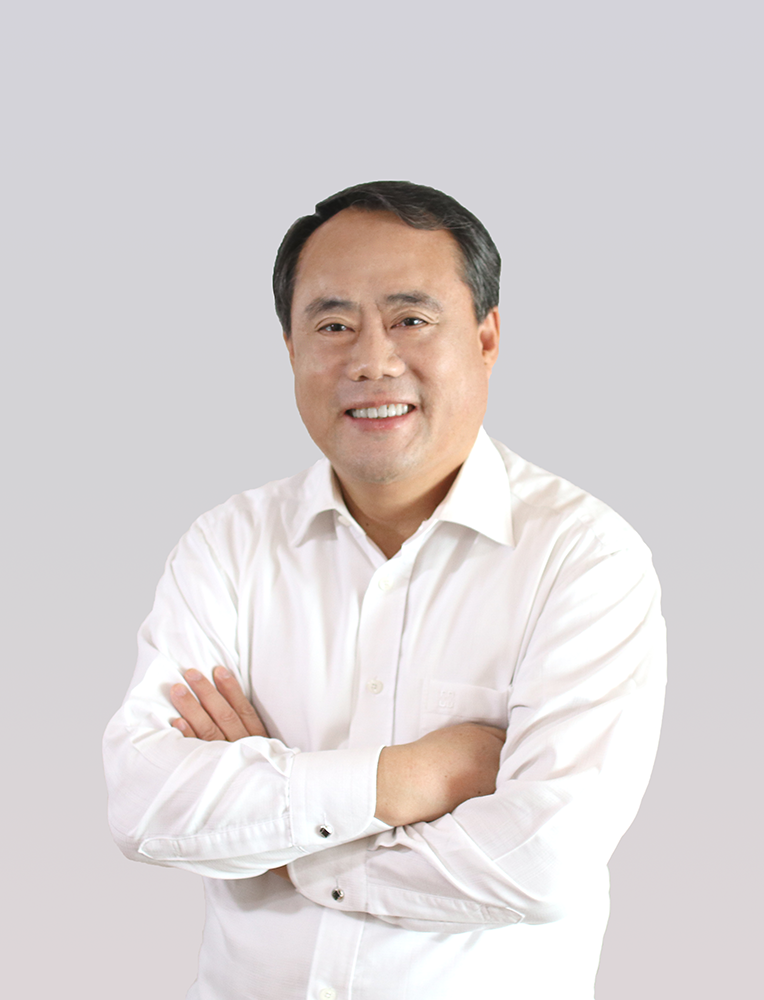
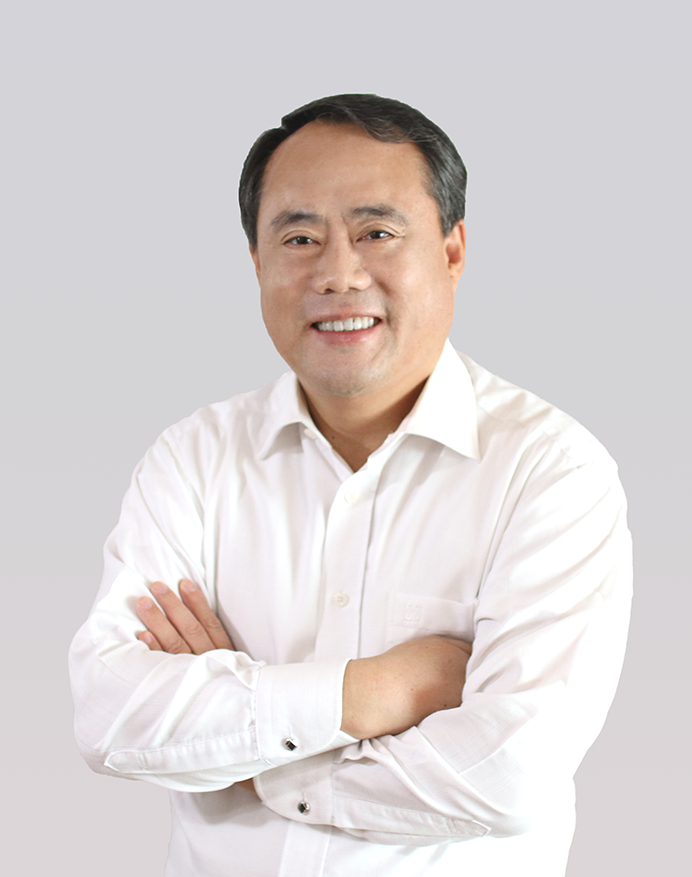
우리교회는 페이지 레이아웃 및 스타일 수정

Changed region(s): [[0.091, 0.0924, 0.9408, 1.0], [0.698, 0.8312, 0.7283, 0.862]]

diff --git a/newpeoplech/css/sub.css b/newpeoplech/css/sub.css
@@ -1,7 +1,7 @@
 @charset "utf-8";
 
 /* 환영합니다 */
-#introduction { padding: 0;}
+#introduction { padding: 0; margin-bottom: 50px;}
 #welcome {padding:50px 10px; text-align: center;}
 #welcome .welcome_logo img {width:100px;}
 #welcome .welcome_intro h3 {padding:30px 0 15px; font-family:'Playfair Display', serif; font-size:18px;color:#a9aaab; font-weight:600; }
@@ -9,32 +9,59 @@
 #welcome .welcome_intro hr {width:170px; border-color:#0066B3; margin-top: 30px; margin-bottom: 30px;}
 #welcome .welcome_intro p a{font-weight:500;}
 #welcome .welcome_intro p > a:nth-child(3) {color:#0066B3}
-#welcome .welcome_intro p > a:nth-child(4) {color:#A5D546}
+#welcome .welcome_intro p > a:nth-child(4) {color:#7bb700}
+#pastor { padding:60px 20px 0; background-color: #f7f7f7; }
+#pastor .pastor_content .pastor_text hr {margin-bottom: 30px; width: 40px; border: solid 1px #0066B3; background: #0066B3;}
+#pastor .pastor_content .pastor_text p { margin-bottom: 15px;}
+#pastor .pastor_content .pastor_image {position: relative; top: 10px; text-align: right; display:flex; -webkit-flex-direction:row-reverse;　flex-direction:row-reverse;}
+#pastor .pastor_content .pastor_image a > img { height:200px; border-radius:20px; box-shadow: 0 3.4px 2.7px rgba(0, 0, 0, 0.037), 0 8.7px 6.9px rgba(0, 0, 0, 0.053), 0 17.7px 14.2px rgba(0, 0, 0, 0.067), 0 16.5px 9.2px rgba(0, 0, 0, 0.083), 0 40px 20px rgba(0, 0, 0, 0.12);}
+#pastor .pastor_content .pastor_image a p {position: absolute; bottom:30px; right: 180px; font-size: 1rem; line-height: 1.6rem; letter-spacing: -1px;}
+#pastor .pastor_content .pastor_image a p span { font-weight:500; font-size: 1.2rem;}
+#pastor .pastor_content .pastor_image a p > img {width:80px; margin-top:10px;}
 @media all and (min-width:375px){
-	#welcome {padding:50px 30px;}
 	#welcome .welcome_logo img {width:120px;}
 	#welcome .welcome_intro h3 {font-size:20px;}
 	#welcome .welcome_intro h2 {font-size:23px;}
-	#welcome .welcome_intro p {font-size:15px;}
+	#welcome .welcome_intro p {font-size:16px;}
+	#pastor .pastor_content .pastor_text p  {font-size:16px;}
+	#pastor .pastor_content .pastor_image a p{font-size:1.1rem; letter-spacing: 0}
+	#pastor .pastor_content .pastor_image a p span { font-size: 1.3rem;}
 }
 @media all and (min-width:768px){
-	#welcome {width:768px; display:flex; padding-top:30px; margin: 0 auto;}
+	#introduction { margin-bottom: 0;}
+	#welcome {width:768px; display:flex; padding:10px 0 60px 0; margin: 0 auto;}
 	#welcome .welcome_logo {float:left; width:33%;}
 	#welcome .welcome_logo img { width:140px; position:relative; top:20%; left: 10%;}
 	#welcome .welcome_intro {width:66%; text-align: left; padding-left:20px;}
 	#welcome .welcome_intro h3 {text-align: left; font-size:1.6rem}
 	#welcome .welcome_intro h2 {font-size:1.8rem;}
-	#welcome .welcome_intro p {font-size:1rem;}
+	#welcome .welcome_intro p {font-size:17px;}
 	#welcome .welcome_intro hr {margin-left:0;}
+	#pastor {padding: 60px 40px}
+	#pastor .pastor_content {display: flex;}
+	#pastor .pastor_content .pastor_text {width: 65%;}
+	#pastor .pastor_content .pastor_text p {font-size: 1.1rem;}
+	#pastor .pastor_content .pastor_image {width: 35%; padding: 0 0 0 40px; display:block; text-align: right;}
+	#pastor .pastor_content .pastor_image a {position: absolute; bottom:0; right:30px;}
+	#pastor .pastor_content .pastor_image a > img { height:240px;}
+	#pastor .pastor_content .pastor_image a p {font-size:1.2rem; right: 0; position:unset; bottom:0; margin-top: 20px; padding-right: 20px}
+	#pastor .pastor_content .pastor_image a p span { display:inline-block; font-size:1.4rem;}
 }
 @media all and (min-width:1024px){
+	#introduction { margin-bottom: 0;}
 	#welcome {width:1024px;}
 	#welcome .welcome_logo img { width:180px; left:15%;}
 	#welcome .welcome_intro h3 {font-size:2rem}
 	#welcome .welcome_intro h2 {font-size:2.1rem;}
 	#welcome .welcome_intro p {font-size:1.2rem;}
+	#pastor .pastor_content .pastor_text {width: 70%;}
+	#pastor .pastor_content .pastor_image {width: 30%;}
+	}
+@media all and (min-width:1200px){
+	#pastor .pastor_content {max-width:1140px; margin: 0 auto;}
+	#pastor .pastor_content .pastor_text {width: 75%;}
+	#pastor .pastor_content .pastor_image {width: 25%;}
 }
-#pastor { padding:30px 0 50px; background-color: #f7f7f7; text-align: center;}
 
 /* 교회 비전 */
 #vision { padding: 0;}
@@ -166,20 +193,20 @@
 .pp_box01{margin-bottom:20px;}
 .pp_box01 .pastor_img{width:200px; margin:0 auto;}
 .pp_box01 .pastor_img img{display: block;width:100%;}
-.pp_box01 .pastor_name{text-align:center;margin:30px 0;color:#58524c;font-size: 20px;line-height: 1;text-indent:0;}
-.pp_box01 .pastor_name > b{ font-weight: 600; font-size:22px}
-.pp_box01 .pastor_name > span{ display: block; margin-top: 10px; font-weight: 200; font-size: 16px;}
+.pp_box01 .pastor_name{text-align:center;margin:30px 0;color:#58524c;font-size: 22px;line-height: 1;text-indent:0;}
+.pp_box01 .pastor_name > b{ font-weight: 600; font-size:24px}
+.pp_box01 .pastor_name > span{ display: block; margin-top: 10px; font-weight: 200; font-size: 17px;}
 .pp_box01 .pastor_name > a{display: block;width:200px;padding:8px 0;margin:10px auto 30px;border-radius: 20px;background: #756d66;font-weight:500;color:#fff;font-size: 14px;letter-spacing: -0.04em;text-align: center;}
 .pp_box01 .pastor_txt{float:none;width:100%;padding:10px 0 0;}
 .pp_box01 .pastor_txt ul { background:#f1f1f1; border-radius: 10px; padding:20px;}
-.pp_box01 .pastor_txt ul li{position: relative;color:#3a2c2d;letter-spacing: -0.06em;font-size: 14px;line-height: 25px;margin-left: 20px;text-indent: -18px;}
+.pp_box01 .pastor_txt ul li{position: relative;color:#3a2c2d;letter-spacing: -0.06em;font-size: 15px;line-height: 25px;margin-left: 20px;text-indent: -18px;}
 .pp_box01 .pastor_txt ul li:before{position: relative;top:-2px;display: inline-block;clear:both;content:'';width:8px;height:8px;margin:0 10px 0 0;border-radius: 50%;background: #756d66}
 .pp_box02 .pp_list .pp_item{float:left;width:48%;margin:0 4% 30px 0}
 .pp_box02 .pp_list .pp_item:nth-child(2n){margin:0 0 20px 0 !important}
 .pp_box02 .pp_list .pp_item:nth-child(3n){margin:0 4% 20px 0}
 .pp_box02 .pp_list .pp_item img{display: block;width:90%; margin:auto;}
 .pp_box02 .pp_list .pp_info{max-width: 100%;padding:15px 5px 12px;text-align: center;}
-.pp_box02 .pp_list .pp_info li{color:#3a2c2d;font-size: 14px;letter-spacing: -0.025em;line-height: 1.5}
+.pp_box02 .pp_list .pp_info li{color:#3a2c2d;font-size: 15px;letter-spacing: -0.025em;line-height: 1.5}
 .pp_box02 .pp_list .pp_info li:first-child{margin:0 0 5px 0;color:#58524c;font-size: 17px; font-weight:500; letter-spacing: -0.04em;line-height: 1.5}
 .pp_box02 .pp_list .pp_info li:nth-child(2){background: #ede5dd; border-radius:10px; padding:2px 0 1px;}
 .pp_box02{margin:50px 0 0;}

diff --git a/newpeoplech/html/content/교회소개/우리교회는.html b/newpeoplech/html/content/교회소개/우리교회는.html
@@ -196,7 +196,7 @@
             <!--콘텐츠영역 시작-->
             <div class="content_warp">
                 <div class="content_top">
-                    <h3><span>환영합니다</span></h3>
+                    <h3><span>우리 교회는</span></h3>
                 </div>
                 <!--본문 시작-->
                 <div class="content" id="introduction">
@@ -208,19 +208,26 @@
                             <h3>"Semper Reformanda"</h3>
                             <h2>바른 신학, 바른 교회, 바른 생활</h2>
                             <hr>
-                            <p>우리 교회는 웨스트민스터 신앙고백에 입각하여 <br>정통적인 개혁주의 신학(칼빈 신학)에 근거한 <br><a href="#">대한예수교 장로회 합동</a> 교단 <a href="#">호남노회</a>에 소속된 교회입니다.</p>
+                            <p>우리 교회는 웨스트민스터 신앙고백에 입각하여 <br>정통적인 개혁주의 신학(칼빈 신학)에 근거한 <br><a href="#">대한예수교 장로회(합동)</a> 교단 <a href="#">호남노회</a>에 소속된 교회입니다.</p>
                         </div>
                     </section>
                     <section id="pastor">
-                        <article class="pastor_text">
-                            <h3>환영합니다!</h3>
-                            <p>광주새백성교회 홈페이지를 방문하신 분들을 환영하고 축복합니다. 직접 만나지 못해도 홈페이지를 통해 만남을 가질 수 있어서 참 편리한 세상입니다. 광주새백성교회 홈페이지가 방문하신 분들에게 기쁨을 드리게 되길 원합니다. </p>
-                            <p>광주새백성교회는 2001년 11월 12일 광주 북구 용봉동 현재 위치에 세워진 이후 오늘까지 하나님을 바르게 섬기기 위해 힘써 왔습니다. 우리 교회는 앞으로도 예수님의 마음과 올바른 목양 철학을 바탕으로 바른 교회로서의 사명을 다하기 위해 힘쓸 것입니다.</p>
-                            <p>우리 교회 홈페이지 방문을 계기로 당신과 더 가까워지길 원합니다.<br>하나님의 평안이 함께 하시길 축복합니다.</p>
-                        </article>
-                        <div class="pastor_image">
-                            <img src="../../../images/sub/people/pastor_square.png" alt="장실 목사">
-                            <p>위임목사 <span>장 실</span></p>
+                        <div class="pastor_content">
+                            <article class="pastor_text">
+                                <h3>환영합니다!</h3>
+                                <hr align="left">
+                                <p>광주새백성교회 홈페이지를 방문해주신 모든 분들을 환영합니다. 하나님께서 주시는 은혜와 사랑이 여러분과 가정 위에 항상 충만하기를 바라고 기원합니다.</p>
+                                <p>교회는 세상의 기준으로 세우는 것이 아니라, 예수 그리스도를 인격적으로 만나고 올바르게 교제하며 공동체의 결실을 맺어야 비로소 좋은 교회로 세워질 수 있습니다. <br>교회의 이름이 아닌 예수 그리스도를 높이고, 교회의 머리가 하나님이심을 고백하며, 교회를 세우신 목적을 위해 세상의 빛과 소금의 역할을 묵묵히 감당할 수 있는 광주새백성교회가 되고자 합니다.</p>
+                                <p>우리 교회는 앞으로도 예수님의 형상을 본받고 올바른 목양 철학을 바탕으로 바른 교회의 사명을 다하기 위해 힘쓸 것입니다. 예수 그리스도를 진심으로 만남으로써 값진 행복을 함께 나누는 좋은 이웃이 되어 여러분을 늘 맞이하겠습니다.<br>하나님의 평안이 늘 임하시길 축복합니다.</p>
+                            </article>
+                            <div class="pastor_image">
+                                <a href="#">
+                                    <img src="../../../images/sub/people/pastor_square.png">
+                                    <p>광주새백성교회 <br>위임목사 <!--<span>장 실</span>--><br>
+                                        <img src="../../../images/sub/people/pastor_sign.png" alt="장 실">
+                                    </p>
+                                </a>
+                            </div>
                         </div>
                     </section>
                 </div>

diff --git a/newpeoplech/css/layout.css b/newpeoplech/css/layout.css
@@ -254,7 +254,7 @@ a.quick_menu:hover, a.quick_menu:focus, a.quick_menu:active {background:#404b64;
 .content_top:after{ display:block; clear: both; content:""}
 .content_top h3, .content section .sec_title{ color:#3b3e4a; font-size:2rem; font-weight:500; text-align: center; }
 .content_top h3 span, .content section .sec_title span{ padding: 0px 7px; box-shadow: inset 0 -13px 0 #B4E074;}
-.content section .sec_subtitle { display:block; width:220px; padding:9px 0 7px; font-size:18px; margin: 0 auto 30px; border:2px solid #62AEF8; font-weight:500; border-radius:30px; letter-spacing:-0.04em; }
+.content section .sec_subtitle { display:block; width:220px; padding:9px 0 7px; font-size:20px; margin: 0 auto 30px; border:2px solid #62AEF8; font-weight:500; border-radius:30px; letter-spacing:-0.04em; color:#58524c; text-align:center;}
 @media all and (min-width:768px){
 	.content h3{ font-size:24px; }
 	.content h4{ font-size:22px; }
